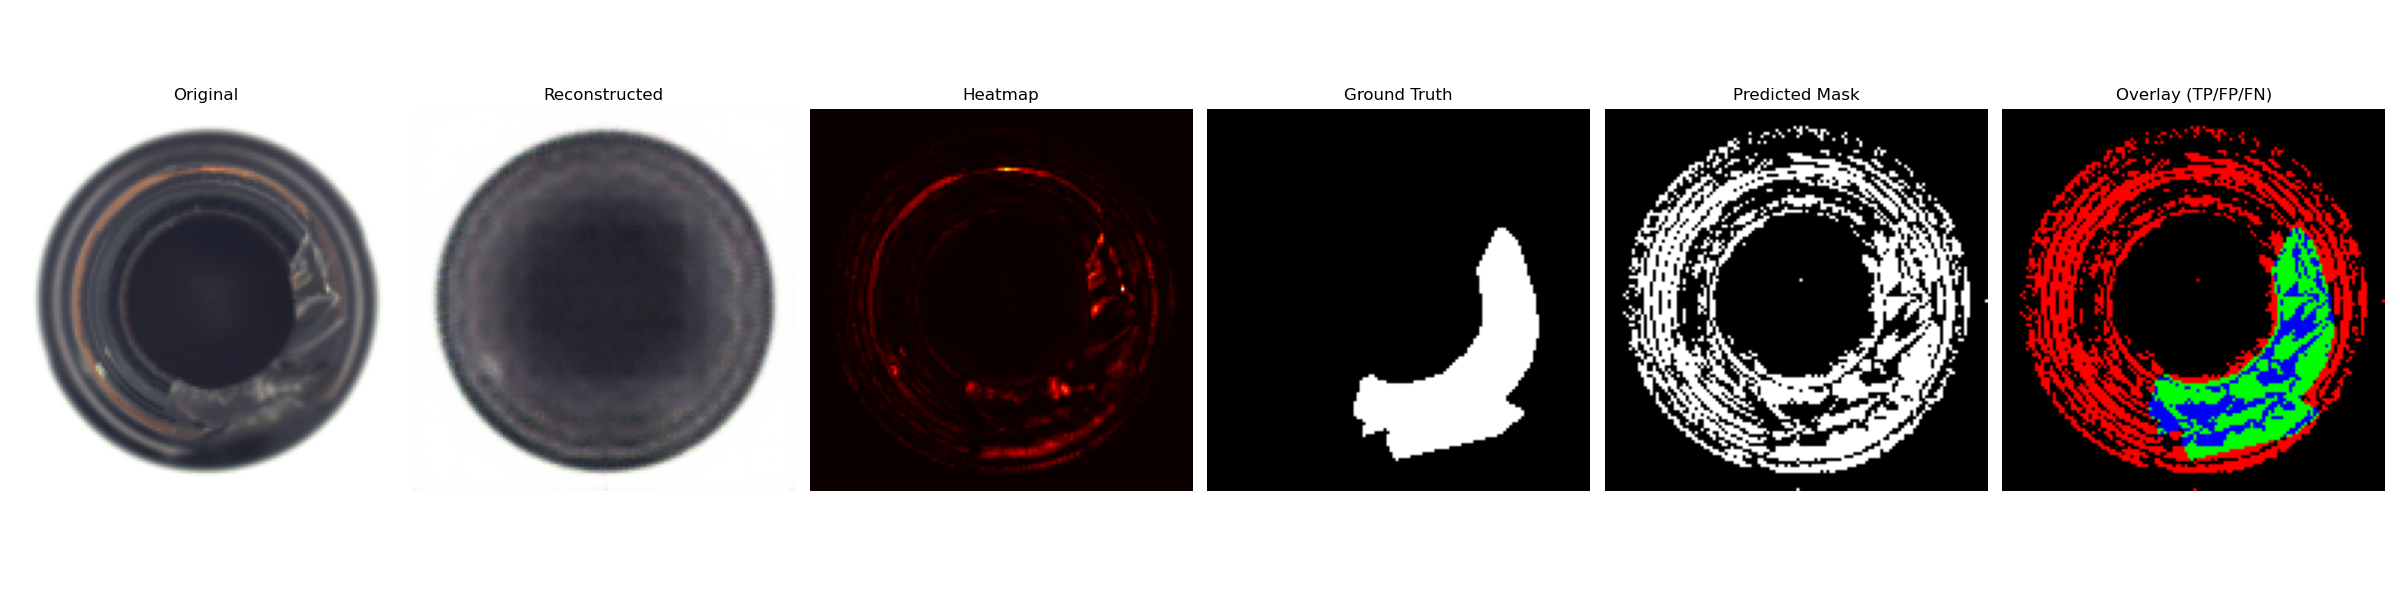
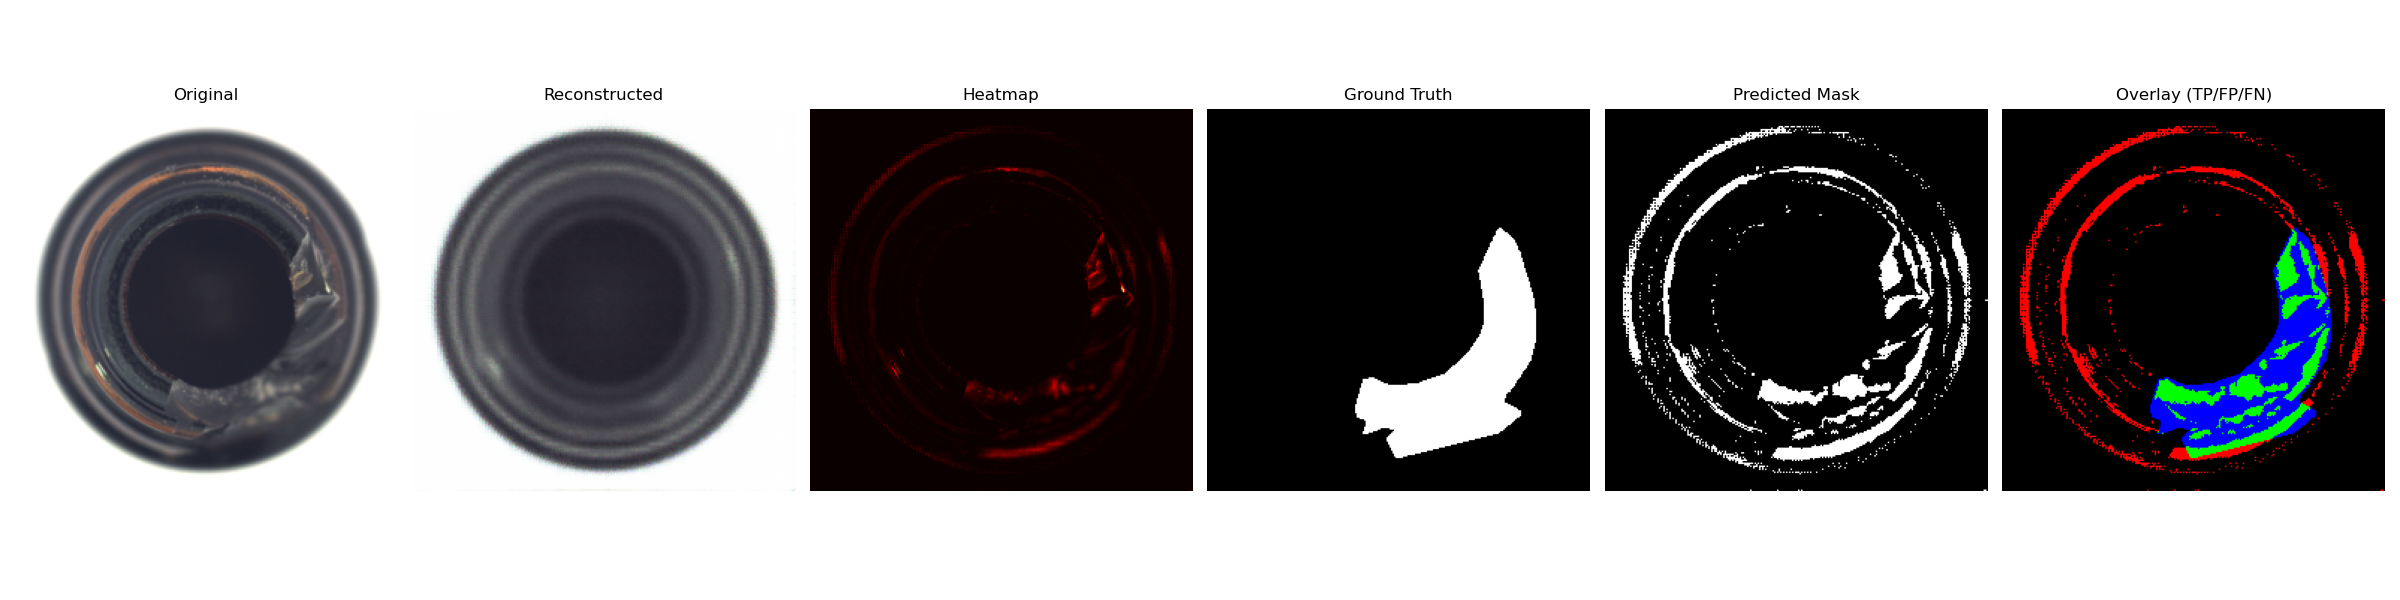
Nuova rete

diff --git a/cnn_anomaly_detection.py b/cnn_anomaly_detection.py
@@ -1,35 +1,57 @@
 import torch
 import torch.nn as nn
 
-class Autoencoder(nn.Module):
+class CAE256_Latent100(nn.Module):
     def __init__(self):
-        super(Autoencoder, self).__init__()
+        super(CAE256_Latent100, self).__init__()
         
-        # Encoder
-        self.encoder = nn.Sequential(
-            nn.Conv2d(in_channels=3, out_channels=16, kernel_size=3, stride=2, padding=1),  # 128x128 -> 64x64
+        # ---- Encoder convoluzionale ----
+        self.encoder_conv = nn.Sequential(
+            nn.Conv2d(3, 16, 3, stride=2, padding=1),    # 256x256 -> 128x128
             nn.ReLU(),
-            nn.Conv2d(in_channels=16, out_channels=32, kernel_size=3, stride=2, padding=1), # 64x64 -> 32x32
+            nn.Conv2d(16, 32, 3, stride=2, padding=1),   # 128x128 -> 64x64
             nn.ReLU(),
-            nn.Conv2d(in_channels=32, out_channels=64, kernel_size=3, stride=2, padding=1), # 32x32 -> 16x16
+            nn.Conv2d(32, 64, 3, stride=2, padding=1),   # 64x64 -> 32x32
             nn.ReLU(),
-            nn.Conv2d(in_channels=64, out_channels=128, kernel_size=3, stride=2, padding=1), # 16x16 -> 8x8
+            nn.Conv2d(64, 128, 3, stride=2, padding=1),  # 32x32 -> 16x16
             nn.ReLU(),
+            nn.Conv2d(128, 256, 3, stride=2, padding=1), # 16x16 -> 4x4
+            nn.ReLU()
         )
         
-        # Decoder
-        self.decoder = nn.Sequential(
-            nn.ConvTranspose2d(in_channels=128, out_channels=64, kernel_size=3, stride=2, padding=1, output_padding=1), # 8x8 -> 16x16
-            nn.ReLU(),
-            nn.ConvTranspose2d(in_channels=64, out_channels=32, kernel_size=3, stride=2, padding=1, output_padding=1),  # 16x16 -> 32x32
-            nn.ReLU(),
-            nn.ConvTranspose2d(in_channels=32, out_channels=16, kernel_size=3, stride=2, padding=1, output_padding=1),  # 32x32 -> 64x64
-            nn.ReLU(),
-            nn.ConvTranspose2d(in_channels=16, out_channels=3, kernel_size=3, stride=2, padding=1, output_padding=1),   # 64x64 -> 128x128
-            nn.Sigmoid()  # output tra 0 e 1
-        )
+       # Flatten per passare a Linear
+        self.flatten = nn.Flatten()
+        self.fc_enc = nn.Linear(256*8*8, 100)  # 16384 -> 100
+
+        # ---- Decoder ----
+        self.fc_dec = nn.Linear(100, 256*8*8)  # 100 -> 16384
+        self.unflatten = nn.Unflatten(1, (256, 8, 8))  # ritorna a [256, 8, 8]
+        
+        self.decoder_conv = nn.Sequential(
+        nn.ConvTranspose2d(256, 128, kernel_size=3, stride=2, padding=1, output_padding=1),  # 8 → 16
+        nn.ReLU(),
+
+        nn.ConvTranspose2d(128, 64, kernel_size=3, stride=2, padding=1, output_padding=1),   # 16 → 32
+        nn.ReLU(),
+
+        nn.ConvTranspose2d(64, 32, kernel_size=3, stride=2, padding=1, output_padding=1),    # 32 → 64
+        nn.ReLU(),
+
+        nn.ConvTranspose2d(32, 16, kernel_size=3, stride=2, padding=1, output_padding=1),    # 64 → 128
+        nn.ReLU(),
+
+        nn.ConvTranspose2d(16, 3, kernel_size=3, stride=2, padding=1, output_padding=1),     # 128 → 256
+        nn.Sigmoid()
+    )
         
     def forward(self, x):
-        encoded = self.encoder(x)
-        decoded = self.decoder(encoded)
-        return decoded
+        # Encoder
+        x = self.encoder_conv(x)
+        x = self.flatten(x)
+        latent = self.fc_enc(x)  # vettore latente di dimensione 100
+        
+        # Decoder
+        x = self.fc_dec(latent)
+        x = self.unflatten(x)
+        x = self.decoder_conv(x)
+        return x

diff --git a/one_anomaly_detection.py b/one_anomaly_detection.py
@@ -1,5 +1,5 @@
 import torch
-from cnn_anomaly_detection import Autoencoder
+from cnn_anomaly_detection import CAE256_Latent100
 from dataset_anomaly_detection import test_transforms
 import matplotlib.pyplot as plt
 import numpy as np
@@ -22,7 +22,7 @@ os.makedirs(OUTPUT_DIR, exist_ok=True)
 device = torch.device("cuda" if torch.cuda.is_available() else "cpu")
 
 # ---- Modello ----
-model = Autoencoder().to(device)
+model = CAE256_Latent100().to(device)
 model.load_state_dict(torch.load(MODEL_PATH, map_location=device))
 model.eval()
 
@@ -74,7 +74,7 @@ heatmap, stats = create_heatmap(orig, recon)
 heatmap_norm = (heatmap - heatmap.min()) / (heatmap.max() - heatmap.min() + 1e-8)
 
 # ---- Threshold temporanea ----
-threshold = 0.01
+threshold = np.percentile(heatmap_norm, 90)  # top 5% dei pixel più “errati”
 pred_mask = (heatmap_norm > threshold).astype(np.uint8)
 
 # Assicuriamoci che la GT sia binaria
@@ -100,8 +100,12 @@ overlay[fp] = [1, 0, 0]
 # Blu = False Negative
 overlay[fn] = [0, 0, 1]
 
+iou = np.sum(tp) / (np.sum(tp) + np.sum(fp) + np.sum(fn) + 1e-8)
+f1 = 2 * np.sum(tp) / (2 * np.sum(tp) + np.sum(fp) + np.sum(fn) + 1e-8)
 
 
+print(f"Iou={iou}")
+print(f"f1={f1}")
 print(f"MSE totale={stats['mse_total']:.6f}")
 print(f"MSE per canale={stats['mse_per_channel']}")
 print(f"Max={stats['max_error']:.6f}, Min={stats['min_error']:.6f}")

diff --git a/training_anomaly_detection.py b/training_anomaly_detection.py
@@ -1,7 +1,7 @@
 import torch
 import torch.nn as nn
 import torch.optim as optim
-from cnn_anomaly_detection import Autoencoder
+from cnn_anomaly_detection import CAE256_Latent100
 from dataset_anomaly_detection import train_loader, test_loader
 from tqdm import tqdm
 
@@ -10,7 +10,7 @@ def main():
     device = torch.device("cuda" if torch.cuda.is_available() else "cpu")
 
     # Istanza del modello
-    model = Autoencoder().to(device)
+    model = CAE256_Latent100().to(device)
 
     # Loss function
     loss = nn.MSELoss()  # Mean Squared Error

diff --git a/dataset_anomaly_detection.py b/dataset_anomaly_detection.py
@@ -12,7 +12,7 @@ from torch.utils.data import ConcatDataset
 
 
 train_transforms = T.Compose([
-    T.Resize((128, 128)),  # ridimensiona le immagini da 900x900 a 128x128
+    T.Resize((256, 256)),  # ridimensiona le immagini da 900x900 a 256x256
     T.ToTensor(),           # converte in tensore PyTorch [0,1]
 ])
 
